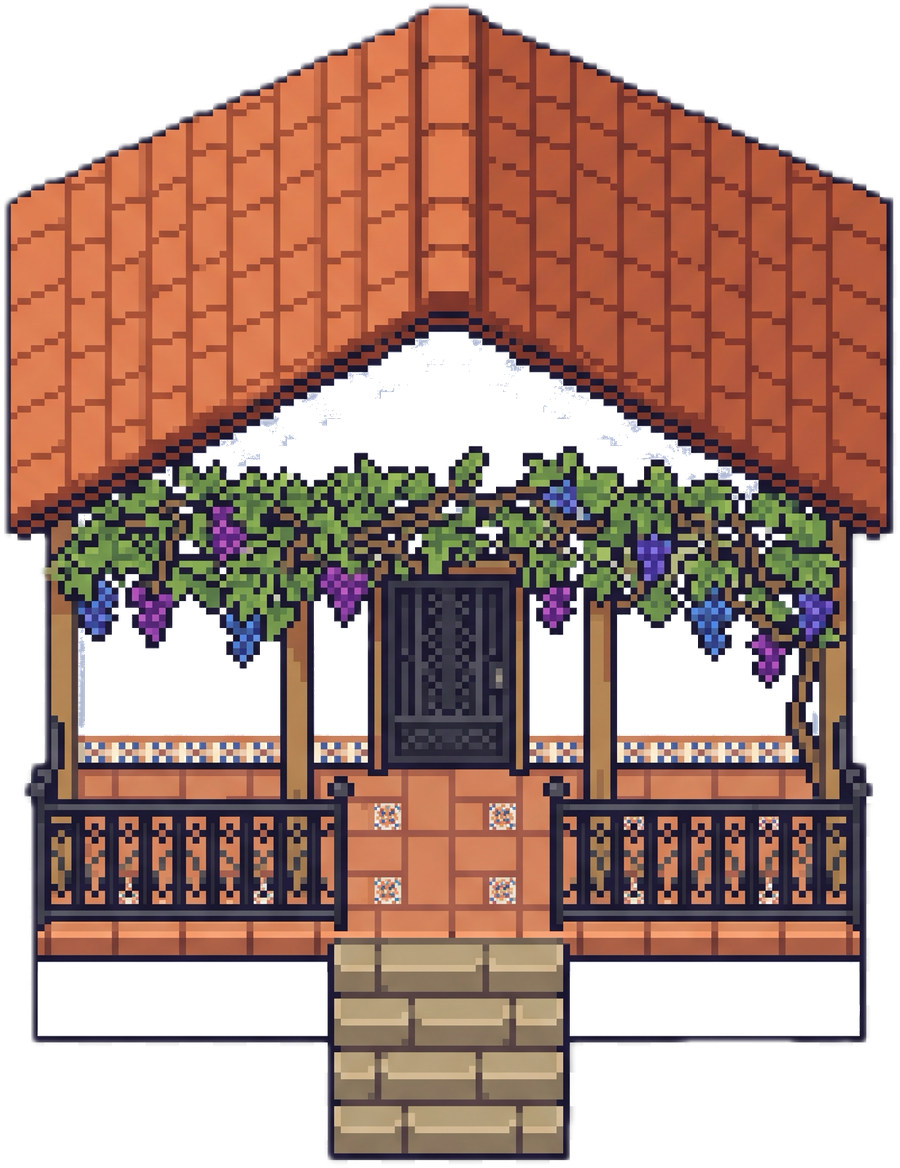
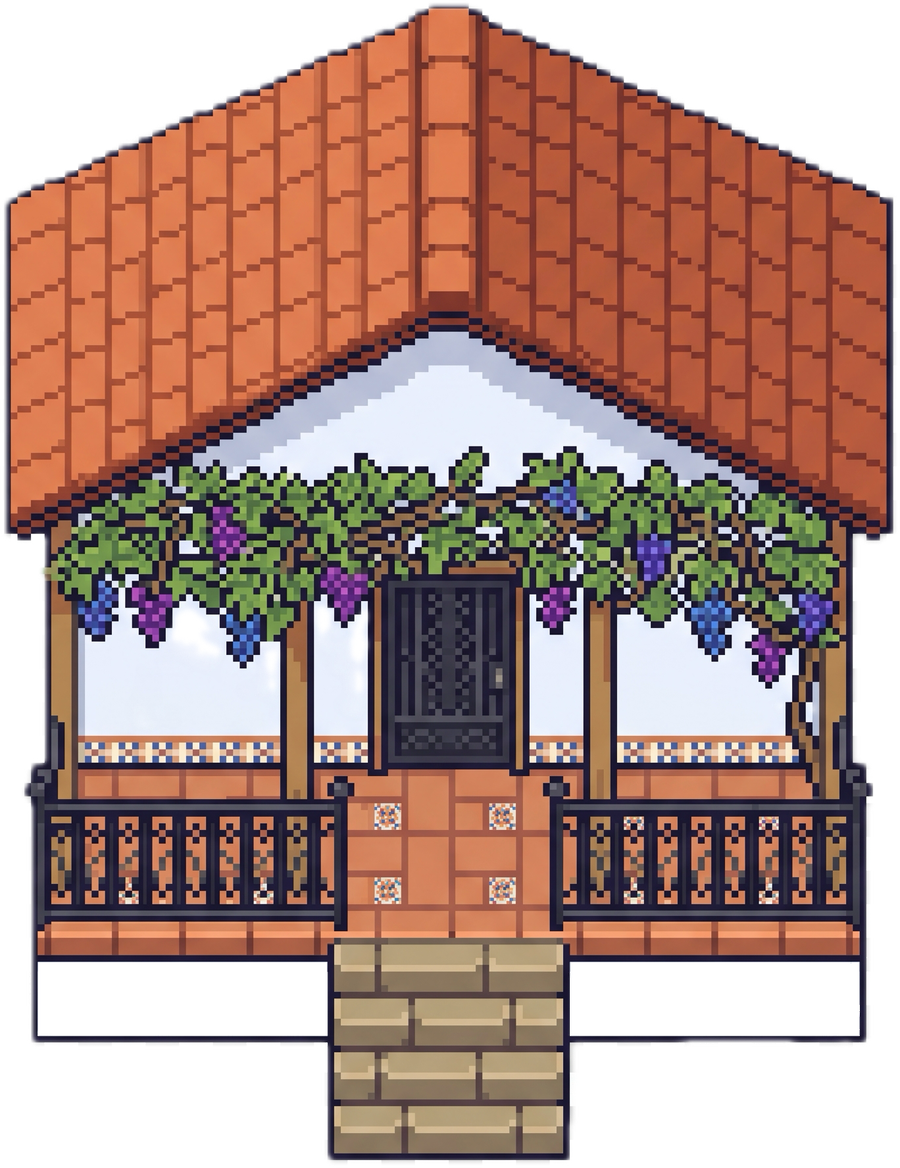
Bordillo real a ambos lados del camino, arregla esquina y fachada blanca
- Nuevo bordillo (tierra + piedra) de Pablo a lo largo de TODO el
  camino por ambos lados (antes tierra lisa/césped a trozos); en el
  lado derecho va reflejado para que la piedra mire hacia el camino.
- Esquina superior derecha: era valla, ahora es el muro de piedra
  (igual que ya se arregló la esquina inferior con la arizónica).
- Arregla una regresión mía: el fix del "panel azulado" de la casa
  había borrado también la fachada blanca real bajo el tejado (el
  filtro de color no distinguía una cosa de otra). Ahora solo se
  limpia la franja del cimiento junto a las escaleras, conservando la
  fachada. Aplicado a house.png y regenerado house_open.png desde el
  original con el mismo cuidado.

diff --git a/game.js b/game.js
@@ -144,7 +144,10 @@ function buildMainGrid() {
   for (let c = 0; c < cols; c++) { g[0][c] = 'S'; g[rows - 1][c] = 'Q'; }
   for (let r = 0; r < rows; r++) { g[r][0] = 'X'; g[r][cols - 1] = 'Y'; }
   g[rows - 1][cols - 1] = 'Q';
-  for (let r = 1; r < rows - 1; r++) g[r][cols - 2] = 'D';
+  g[0][cols - 1] = 'S';
+  // Bordillo (tierra + piedra) junto al camino, en el lado derecho del
+  // todo (mirando hacia el camino, o sea con el bordillo a la izquierda)
+  for (let r = 1; r < rows - 1; r++) g[r][cols - 2] = 'L';
 
   // Franjas de césped/tierra alrededor de la piscina y zona de cultivo
   for (let c = 3; c <= 8; c++) { g[7][c] = 'G'; g[8][c] = 'G'; }
@@ -189,12 +192,10 @@ function buildMainGrid() {
   // Franja de tierra-plantas junto a la valla izquierda (se salta la caseta
   // y el hueco de césped justo debajo de ella)
   [1, 2, 3, 4, 10, 11, 12, 13, 14, 15, 16, 17, 18].forEach(r => { g[r][1] = 'D'; });
-  // Franja de tierra-plantas al lado izquierdo del camino: solo junto a la
-  // piscina (arriba se junta con el asfalto de la casa, abajo pasa a césped)
-  [7, 8, 9, 10, 11].forEach(r => { g[r][9] = 'D'; });
-
-  // Tierra normal entre la zona de cultivo y el camino (sin bordillo especial)
-  for (let r = 19; r <= 24; r++) g[r][9] = 'D';
+  // Bordillo (tierra + piedra) junto al camino, en el lado izquierdo,
+  // en toda su longitud (con el bordillo mirando hacia el camino, a la
+  // derecha de la tierra)
+  for (let r = 1; r <= 24; r++) g[r][9] = 'R';
 
   // Entrada: verja metálica abierta de 2 casillas, abajo
   g[rows - 1][10] = 'Z';
@@ -220,6 +221,8 @@ function mainTileClass(type) {
     case 'C': return 'tile-crop';
     case 'G': return 'tile-grass';
     case 'D': return 'tile-dirtplants';
+    case 'R': return 'tile-curbdirt-r';
+    case 'L': return 'tile-curbdirt-l';
     default: return 'tile-asphalt';
   }
 }

diff --git a/styles.css b/styles.css
@@ -382,6 +382,11 @@ html, body {
   background-size: cover;
   background-position: center;
 }
+.tile-curbdirt-r { background: url('game/Bordillo_title.jpeg') center/cover; }
+.tile-curbdirt-l {
+  background: url('game/Bordillo_title.jpeg') center/cover;
+  transform: scaleX(-1);
+}
 
 /* Casa/invernadero: la imagen real (map-structures) cubre esta zona */
 .tile-wall { background: #cfa15f; }
